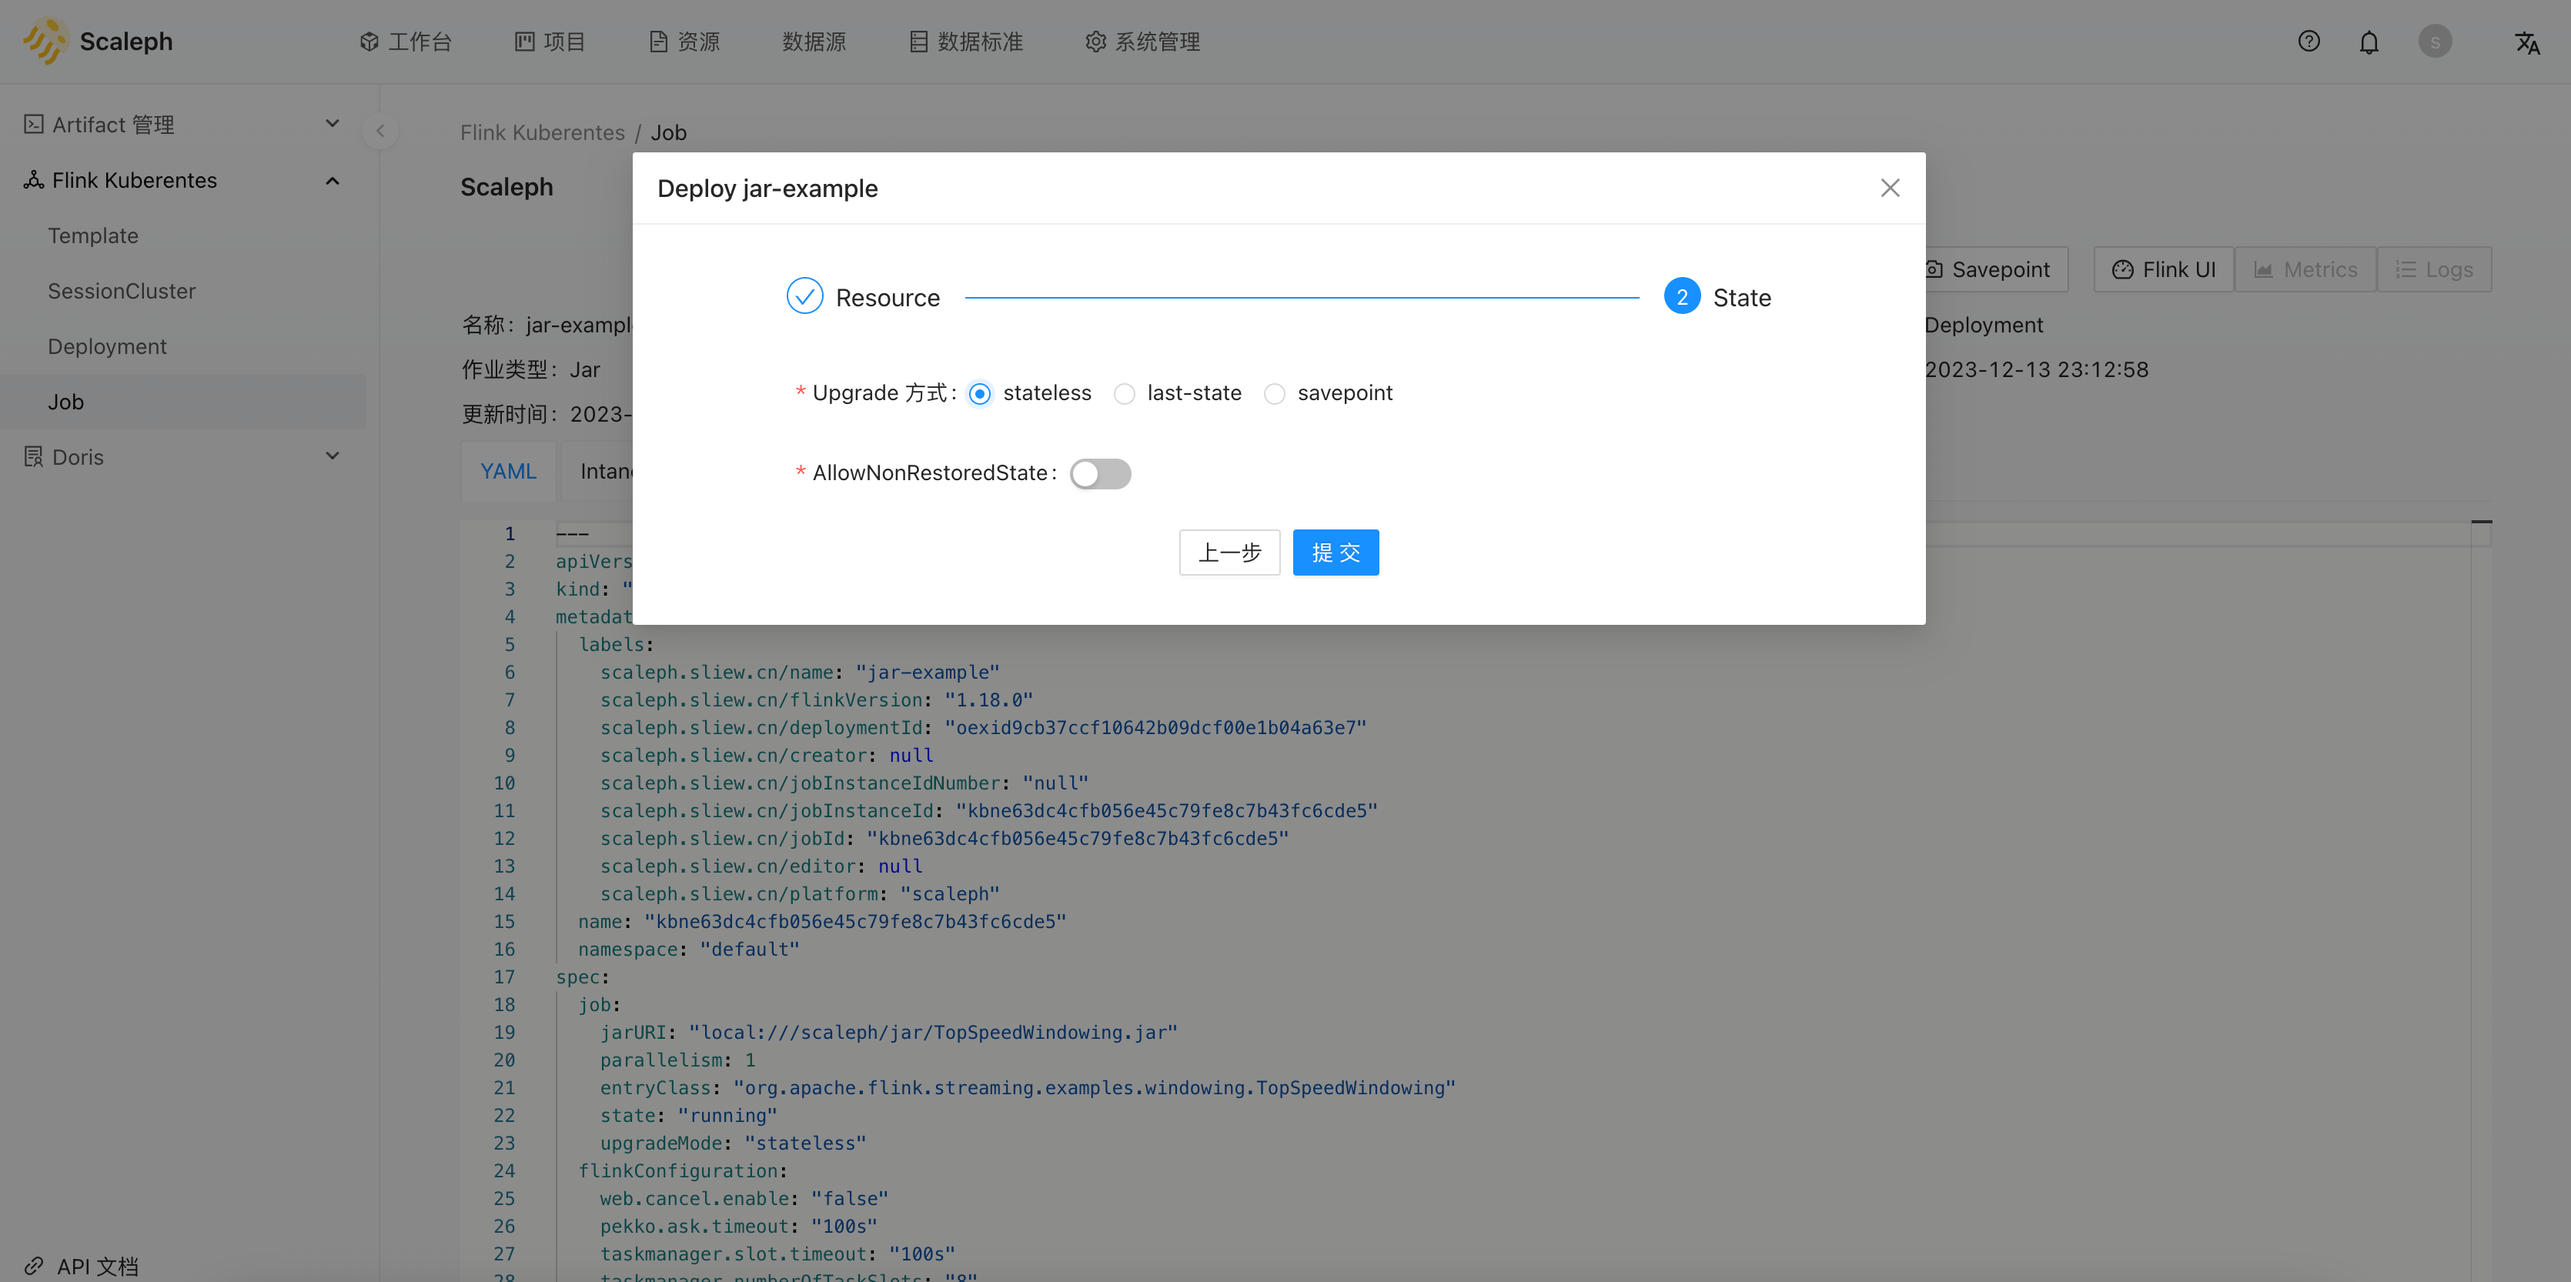
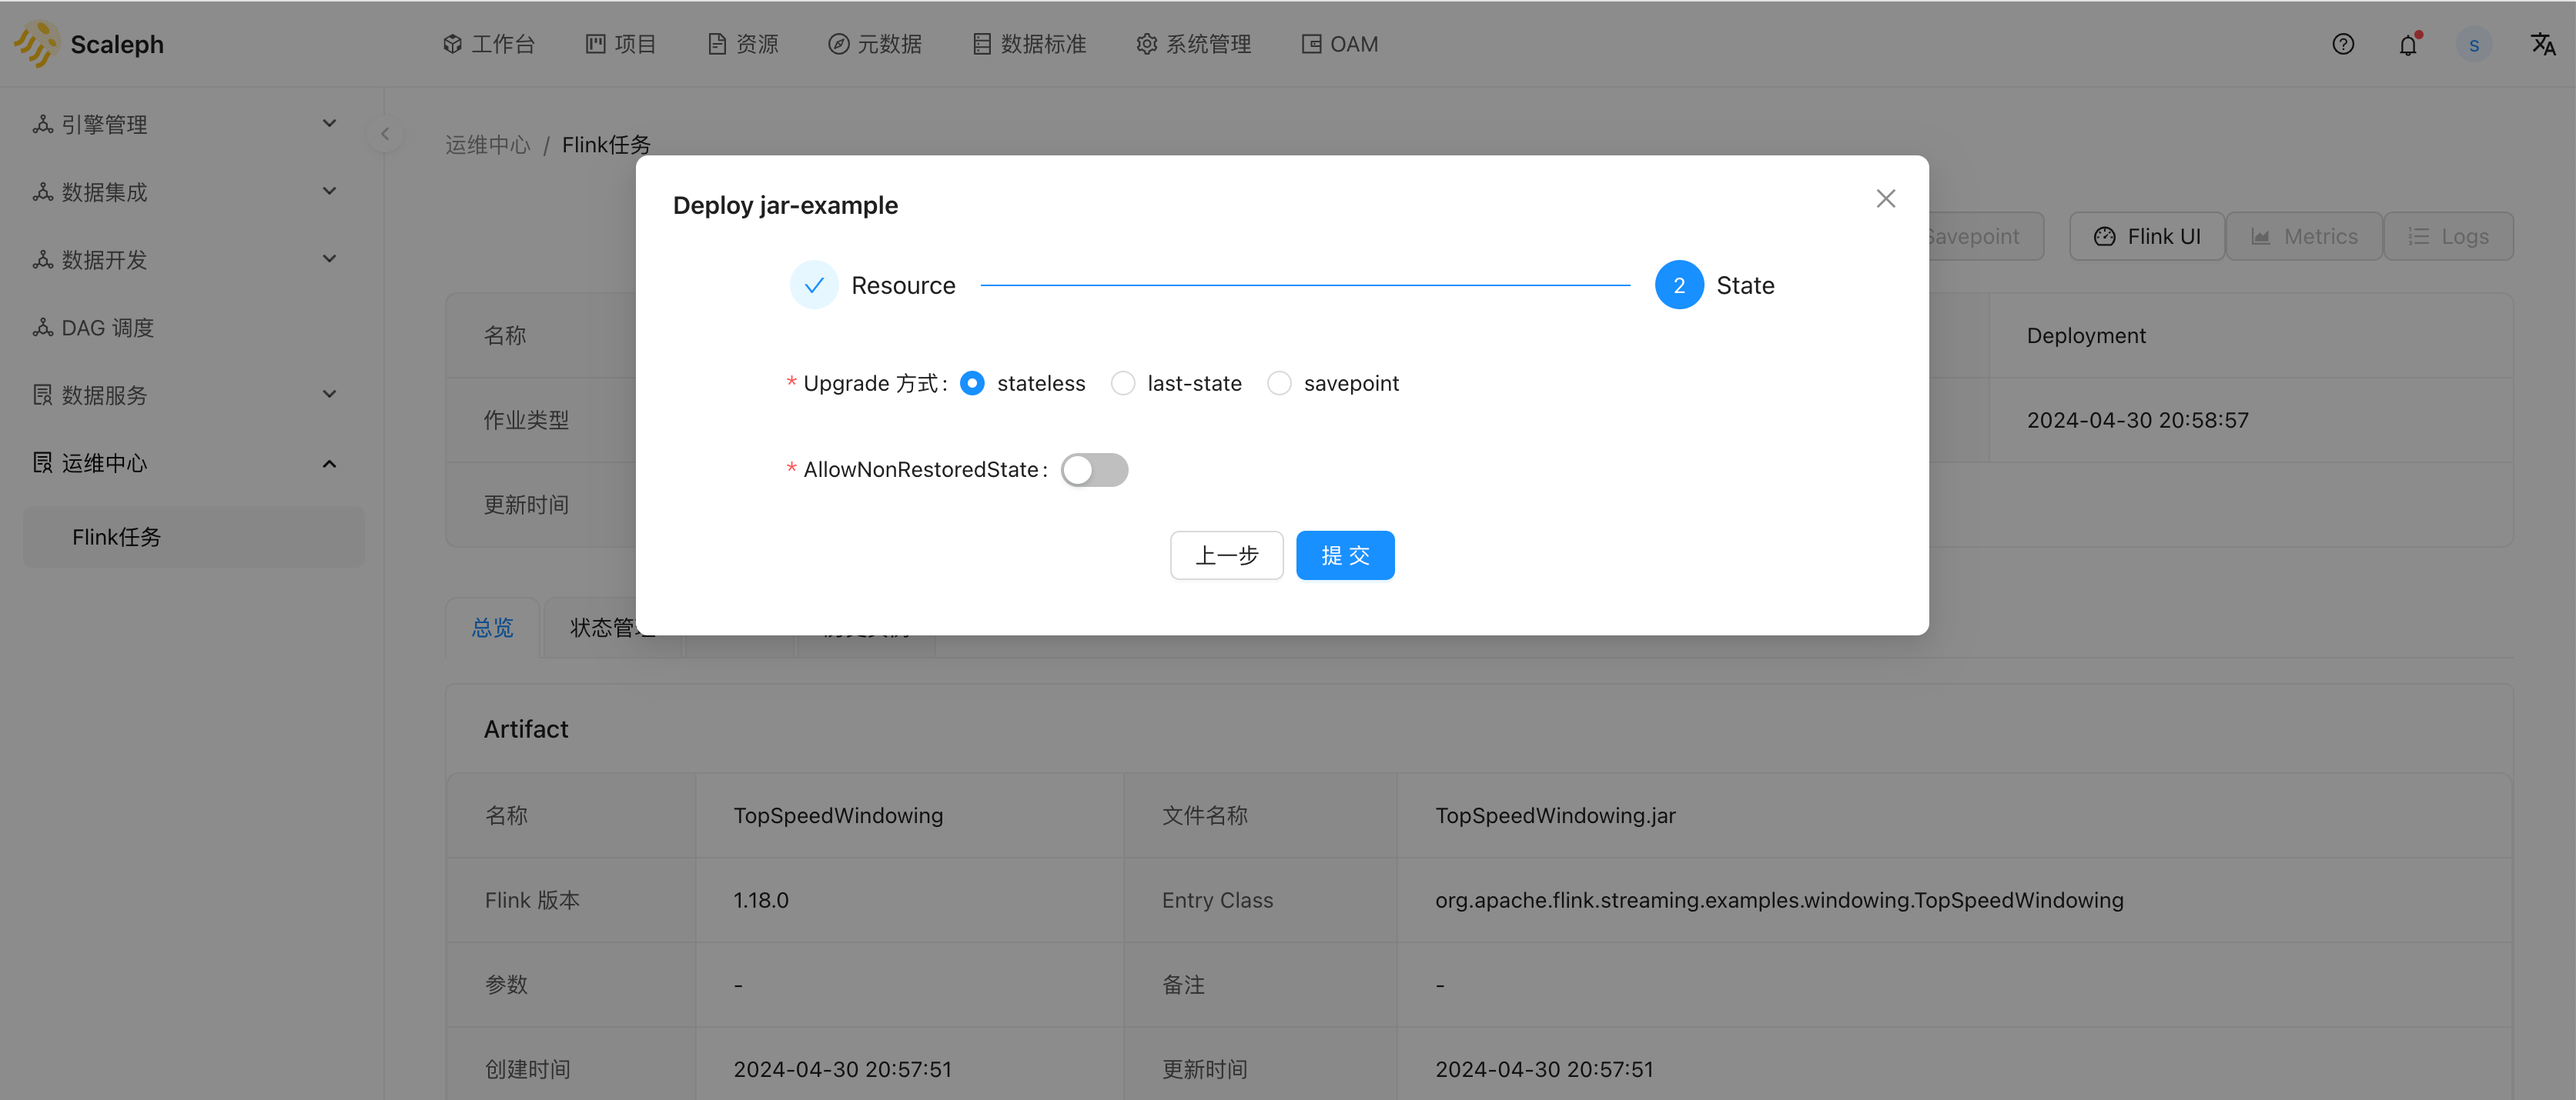
feature: prepare v2.0.3 doc

diff --git a/docs/dev/zh/quick-start/requirement.md b/docs/dev/zh/quick-start/requirement.md
@@ -28,10 +28,10 @@
 Flink 支持多种资源方式：
 
 * Standalone。`Standalone` 方式仅仅使用容器和 Kubernetes 作为服务器资源提供者，Flink 无法感知到自己运行在容器或 Kubernetes 中。Flink 运行所需要的资源都需要用户手动管理和维护
-  * [Docker](https://nightlies.apache.org/flink/flink-docs-release-1.18/docs/deployment/resource-providers/standalone/docker/)
-  * [Kubernetes](https://nightlies.apache.org/flink/flink-docs-release-1.18/docs/deployment/resource-providers/standalone/kubernetes/)
+  * [Docker](https://nightlies.apache.org/flink/flink-docs-release-1.19/docs/deployment/resource-providers/standalone/docker/)
+  * [Kubernetes](https://nightlies.apache.org/flink/flink-docs-release-1.19/docs/deployment/resource-providers/standalone/kubernetes/)
 * YARN
-* [Native Kubernetes](https://nightlies.apache.org/flink/flink-docs-release-1.18/docs/deployment/resource-providers/native_kubernetes/)。Flink 直接访问 Kubernetes，申请和管理资源。
+* [Native Kubernetes](https://nightlies.apache.org/flink/flink-docs-release-1.19/docs/deployment/resource-providers/native_kubernetes/)。Flink 直接访问 Kubernetes，申请和管理资源。
 
 用户在使用 `scaleph` 运行 Flink 任务前，需对 Flink 运行在容器和 Kubernetes 原理有个基础了解，实践 Flink 文档 example，确定自己提供的容器和 Kubernetes 环境能够运行 Flink 任务。
 
@@ -39,16 +39,16 @@ Flink 支持多种资源方式：
 
 Flink Kubernetes Operator 运行所需
 
-* [Quick Start](https://nightlies.apache.org/flink/flink-kubernetes-operator-docs-release-1.7/docs/try-flink-kubernetes-operator/quick-start/)
+* [Quick Start](https://nightlies.apache.org/flink/flink-kubernetes-operator-docs-release-1.8/docs/try-flink-kubernetes-operator/quick-start/)
 
 ## SeaTunnel
 
-* [Install connectors plugin](https://seatunnel.apache.org/docs/2.3.3/start-v2/locally/deployment#step-3-install-connectors-plugin)
-* [Set Up with Kubernetes](https://seatunnel.apache.org/docs/2.3.3/start-v2/kubernetes/)
+* [Install connectors plugin](https://seatunnel.apache.org/docs/2.3.4/start-v2/locally/deployment#step-3-install-connectors-plugin)
+* [Set Up with Kubernetes](https://seatunnel.apache.org/docs/2.3.4/start-v2/kubernetes/)
 
 ## Doris
 
-* [基于 Doris-Operator 部署](https://doris.apache.org/zh-CN/docs/install/k8s-deploy)
+* [基于 Doris-Operator 部署](https://doris.apache.org/zh-CN/docs/install/cluster-deployment/k8s-deploy/install-operator)
 
 
 

diff --git a/docs/dev/zh/quick-start/quick-start/flink/flink-kubernetes.md b/docs/dev/zh/quick-start/quick-start/flink/flink-kubernetes.md
@@ -49,7 +49,7 @@ Flink 作为有状态的流式计算引擎，状态存储、checkpoint 配置会
 
 ## Template
 
-用户可以在 `项目` -> `Flink Kubernetes` -> `Template` 中，创建或修改模板。
+用户可以在 `项目` -> `引擎管理` -> `计算引擎` -> `Flink` -> `部署模板` 中，创建或修改模板。
 
 ![flink-kubernetes-template-list](./images/flink-kubernetes/flink-kubernetes-template-list.jpg)
 
@@ -66,7 +66,7 @@ Flink 作为有状态的流式计算引擎，状态存储、checkpoint 配置会
 
 ## Session Cluster
 
-`项目` -> `Flink Kubernetes` -> `SessionCluster` 代表 Flink 支持的 session 模式，用户可以这里创建一个 session cluster。
+`项目` -> `引擎管理` -> `计算引擎` -> `Flink` -> `Session 集群` 代表 Flink 支持的 session 模式，用户可以这里创建一个 session cluster。
 
 ![flink-kubernetes-sessioncluster-list](./images/flink-kubernetes/flink-kubernetes-sessioncluster-list.jpg)
 
@@ -79,7 +79,7 @@ Flink 作为有状态的流式计算引擎，状态存储、checkpoint 配置会
 
 ## Deployment
 
-与 `SessionCluster` 类似，`项目` -> `Flink Kubernetes` -> `SessionCluster` 代表 Flink 支持的 application 模式。用户创建 `Deployment` 后，稍后可在 `项目` -> `Flink Kubernetes` -> `Job` 应用 `Deployment`。 
+与 `SessionCluster` 类似，`项目` -> `引擎管理` -> `计算引擎` -> `Flink` -> `Deployment` 代表 Flink 支持的 application 模式。用户创建 `Deployment` 后，稍后可在 `项目` -> `运维中心` -> `Flink任务` 应用 `Deployment`。 
 
 ![flink-kubernetes-deployment-list](./images/flink-kubernetes/flink-kubernetes-deployment-list.jpg)
 
@@ -87,9 +87,10 @@ Flink 作为有状态的流式计算引擎，状态存储、checkpoint 配置会
 
 ## Job
 
-`Job` 部分支持 3 种任务类型，分别是：
+`Job` 部分支持 4 种任务类型，分别是：
 
 * Jar
 * SQL
 * SeaTunnel。Flink 引擎
+* Flink CDC。尚未支持，待社区推出 Flink Kubernetes Operator 解决方案
 

diff --git a/docs/dev/zh/quick-start/install/prepare.md b/docs/dev/zh/quick-start/install/prepare.md
@@ -1,13 +1,15 @@
 # 前置准备
 
-`scaleph` 使用容器构建本地开发，通过容器快速构建开发、体验环境，生产环境需要替换。`scaleph-api` 运行所需：
+`scaleph` 使用容器构建本地开发，通过容器快速构建开发、体验环境，**生产环境需要替换**。`scaleph-api` 运行所需：
 
 * mysql。`scaleph` 用到的数据库，sql 语句位于 `tools/docker/mysql/init.d`。
   * scaleph。主库。包含日志类表，quartz 表，scaleph 核心表。`scaleph-api` 配置了多数据源，生产环境用户为 3 类表配置不同的数据库。
-  * sakura。`scaleph` 实现的Flink catalog 使用的数据库。
+  * sakura。`scaleph` 实现的 Flink catalog 使用的数据库。
+* redis。用户权限模块使用。
+* minio。`scaleph` 文件上传，Flink 任务运行期间产生的 checkpoints、savepoints 和 ha 数据。`scaleph` 未于 minio 深度绑定，用户可以按需切换 HDFS、OSS 等。
+* [gravitino](https://github.com/datastrato/gravitino)。元数据。
+  * mysql catalog 需要添加 jdbc 驱动，通过 volume 挂载到 `${gravitino_home}/catalogs/jdbc-mysql/libs`。其他类型数据源 如postgresql 与此同理
 
-* redis。用户权限模块使用
-* minio。`scaleph` 文件上传，Flink 任务运行期间产生的 checkpoints、savepoints 和 ha 数据。`scaleph` 未于 minio 深度绑定，用户可以按需切换 HDFS、OSS 等
 
 拉取镜像
 
@@ -19,7 +21,7 @@
   * `docker pull bitnami/mysql:8.0`。与 `ghcr.io/flowerfine/scaleph/mysql:v2.0.3` 功能重叠，`ghcr.io/flowerfine/scaleph/mysql:v2.0.3` 内置了 scaleph 初始 sql。
   * `docker pull bitnami/redis:7.0.10`
   * `docker pull bitnami/minio:2023.3.24`
-  * `docker pull datastrato/gravitino:0.4.0`
+  * `docker pull datastrato/gravitino:0.5.0`
 * Flink 和 SeaTunnel 运行镜像
   * Jar
     * `docker pull flink:1.18`

diff --git a/docs/dev/zh/quick-start/prepare/install-dependency/flink-kubernetes-operator.md b/docs/dev/zh/quick-start/prepare/install-dependency/flink-kubernetes-operator.md
@@ -14,7 +14,7 @@
    1. [kubernetes](https://kubernetes.io/)
    2. [helm](https://helm.sh/zh/docs/intro/quickstart/)
 
-2. 安装 flink-kubernetes-operator，参考 [Try the Flink Kubernetes Operator](https://nightlies.apache.org/flink/flink-kubernetes-operator-docs-release-1.7/docs/try-flink-kubernetes-operator/quick-start/)
+2. 安装 flink-kubernetes-operator，参考 [Try the Flink Kubernetes Operator](https://nightlies.apache.org/flink/flink-kubernetes-operator-docs-release-1.8/docs/try-flink-kubernetes-operator/quick-start/)
 
    ```shell
    # 安装 cert-manager
@@ -65,7 +65,7 @@
 
 ## Ingress
 
-在 Kubernetes 中，外部访问集群内的服务有两种方式：[service](https://kubernetes.io/docs/concepts/services-networking/service/#publishing-services-service-types) 和 [ingress](https://kubernetes.io/docs/concepts/services-networking/ingress/)。其中 Flink 的 web ui 对 service 的 3 种类型都进行了支持，[参考链接](https://nightlies.apache.org/flink/flink-docs-release-1.17/docs/deployment/resource-providers/native_kubernetes/#accessing-flinks-web-ui)：
+在 Kubernetes 中，外部访问集群内的服务有两种方式：[service](https://kubernetes.io/docs/concepts/services-networking/service/#publishing-services-service-types) 和 [ingress](https://kubernetes.io/docs/concepts/services-networking/ingress/)。其中 Flink 的 web ui 对 service 的 3 种类型都进行了支持，[参考链接](https://nightlies.apache.org/flink/flink-docs-release-1.19/docs/deployment/resource-providers/native_kubernetes/#accessing-flinks-web-ui)：
 
 - ClusterIP
 - NodePort

diff --git a/docs/dev/zh/quick-start/quick-start/flink/job_sql.md b/docs/dev/zh/quick-start/quick-start/flink/job_sql.md
@@ -1,10 +1,10 @@
 # SQL
 
-`scaleph` 对接了 [SQL Gateway](https://nightlies.apache.org/flink/flink-docs-release-1.18/docs/dev/table/sql-gateway/overview/) 提供了 Flink SQL online 编辑器，用户可以在线开发、调试 Flink SQL 任务。
+`scaleph` 对接了 [SQL Gateway](https://nightlies.apache.org/flink/flink-docs-release-1.19/docs/dev/table/sql-gateway/overview/) 提供了 Flink SQL online 编辑器，用户可以在线开发、调试 Flink SQL 任务。
 
 任务上线时，用户需在 `项目` -> `Flink Kubernetes` -> `Job` 部署 SQL 任务。
 
- [SQL Gateway](https://nightlies.apache.org/flink/flink-docs-release-1.18/docs/dev/table/sql-gateway/overview/) 不支持 Application 默认运行，因此只能支持 kubernetes-session 方式，用户在使用 Flink SQL online 编辑器前需创建一个 Session Cluster，并启用 SQL Gateway。
+ [SQL Gateway](https://nightlies.apache.org/flink/flink-docs-release-1.19/docs/dev/table/sql-gateway/overview/) 不支持 Application 默认运行，因此只能支持 kubernetes-session 方式，用户在使用 Flink SQL online 编辑器前需创建一个 Session Cluster，并启用 SQL Gateway。
 
 ## 创建 Session Cluster
 

diff --git a/docs/dev/zh/quick-start/install/docker.md b/docs/dev/zh/quick-start/install/docker.md
@@ -13,11 +13,13 @@
 - redis
 - mysql
 - minio
-- gravitino。元数据
+- [gravitino](https://github.com/datastrato/gravitino)。元数据
 
 `scaleph` 应用本身由 2 个组件组成：
 
 - [scaleph-api](https://github.com/flowerfine/scaleph/pkgs/container/scaleph%2Fscaleph-api)。服务端。
+  - 如果使用 docker 在本地启动的 MySQL、Redis、Minio 和 Gravitino，地址都是 `localhost` 或 `127.0.0.1`。如果 Kubernetes 集群不是本地如远程服务器上的开发集群，任务运行在 Kubernetes 中尝试通过  `localhost` 或 `127.0.0.1` 访问 MySQL、Redis、Minio 和 Gravitino 服务就会出现连接失败问题。在启动服务端时，如果是 `localhost` 或 `127.0.0.1` 地址，需替换成本地的 IP 地址。
+
 - [scaleph-ui-react](https://github.com/flowerfine/scaleph/pkgs/container/scaleph%2Fscaleph-ui-react)。前端。
 
 下载镜像，一键启动
@@ -29,6 +31,8 @@ git clone https://github.com/flowerfine/scaleph.git --depth 1
 git fetch origin 2.0.3
 git checkout 2.0.3
 
+# 将镜像 tag 从 latest 切换到 v2.0.3。latest 为开发中的最新版本
+# 
 cd scaleph/tools/docker/deploy/scaleph
 
 # 下载依赖 && scaleph 组件

diff --git a/docs/dev/zh/quick-start/quick-start/initialize.md b/docs/dev/zh/quick-start/quick-start/initialize.md
@@ -10,6 +10,8 @@
 
 `scaleph` 支持多集群部署，用户可以将 Flink 或 SeaTunnel 任务部署至多个 Kubernetes 集群。
 
+==使用时需注意 Kubernetes 集群和 MySQL、Redis、Minio 以及 Gravitino 的网络是否连通。==如果使用 docker 在本地启动的 MySQL、Redis、Minio 和 Gravitino，地址都是 `localhost` 或 `127.0.0.1`。如果 Kubernetes 集群不是本地如远程服务器上的开发集群，任务运行在 Kubernetes 中尝试通过  `localhost` 或 `127.0.0.1` 访问 MySQL、Redis、Minio 和 Gravitino 服务就会出现连接失败问题。
+
 用户需上传 Kubernetes 集群 kubeconfig 文件，kubeconfig 文件一般位于 `$HOME/.kube/config`。通过 kubeconfig， `scaleph` 可以连接对应 Kubernetes 集群，提交任务。
 
 从 `资源` -> `Cluster Credential` -> `新增`进入上传页面：

diff --git a/docs/dev/zh/quick-start/index.md b/docs/dev/zh/quick-start/index.md
@@ -27,7 +27,7 @@
 
   - 数据集成
 
-    - 拖拉拽式的 web 任务开发方式。基于 2.3.3 版本的 [SeaTunnel](https://seatunnel.apache.org/)，支持 Flink 引擎。
+    - 拖拉拽式的 web 任务开发方式。基于 2.3.4 版本的 [SeaTunnel](https://seatunnel.apache.org/)，支持 Flink 引擎。
   - 数据开发
     - Flink 管理。与 [Flink Kubernetes Operator](https://nightlies.apache.org/flink/flink-kubernetes-operator-docs-stable/) 深度集成，以 operator 模式提供了 Template -> Session-Cluster、Deployment -> Job 的 Flink 任务层级管理。 
     - Jar 任务管理。上传基于 Flink DataStream  和 Table API 开发的 jar 包。

diff --git a/docs/dev/zh/quick-start/quick-start/flink/job_jar.md b/docs/dev/zh/quick-start/quick-start/flink/job_jar.md
@@ -4,7 +4,7 @@
 
 ## Artifact
 
-首先上传 Jar artifact，操作路径为 `项目` -> `Artifact 管理` -> `Jar`。以 Flink 提供的 examples 为例：
+首先上传 Jar artifact，操作路径为 `项目` -> `数据开发` -> `Flink Jar`。以 Flink 提供的 examples 为例：
 
 ![job_jar_new_upload_params](./images/job/jar/job_jar_new_upload_params.jpg)
 
@@ -14,7 +14,7 @@
 
 ## 启动任务
 
-用户可以在 `项目` -> `Flink Kubernets` -> `Job` 部署 Jar 类型作业：
+用户可以在 `项目` -> `运维中心` -> `Flink任务` 部署 Jar 类型作业：
 
 ![job-jar-deploy-form](./images/job/jar/job-jar-deploy-form.jpg)
 

diff --git a/docs/dev/zh/quick-start/prepare/index.md b/docs/dev/zh/quick-start/prepare/index.md
@@ -10,7 +10,7 @@
 * 准备容器和 kubernetes 环境
   * Docker
   * Kubernetes
-  * [Helm](https://helm.sh/)。类似 Java 有 maven、gradle，Node 有 npm，Helm 提供在 Kubernetes 部署应用功能。
+  * [Helm](https://helm.sh/zh/docs/intro/install/)。类似 Java 有 maven、gradle，Node 有 npm，Helm 提供在 Kubernetes 部署应用功能。
 * 安装 Kubernetes 所需依赖
   * Prometheus Operator
   * Grafana Operator

diff --git a/docs/dev/zh/quick-start/prepare/install-dependency/doris-operator.md b/docs/dev/zh/quick-start/prepare/install-dependency/doris-operator.md
@@ -2,7 +2,7 @@
 
 链接：
 
-* [基于 Doris-Operator 部署](https://doris.apache.org/zh-CN/docs/install/k8s-deploy)
+* [基于 Doris-Operator 部署](https://doris.apache.org/zh-CN/docs/install/cluster-deployment/k8s-deploy/install-operator)
 * [doris-operator](https://github.com/selectdb/doris-operator)
 
 ## 安装
